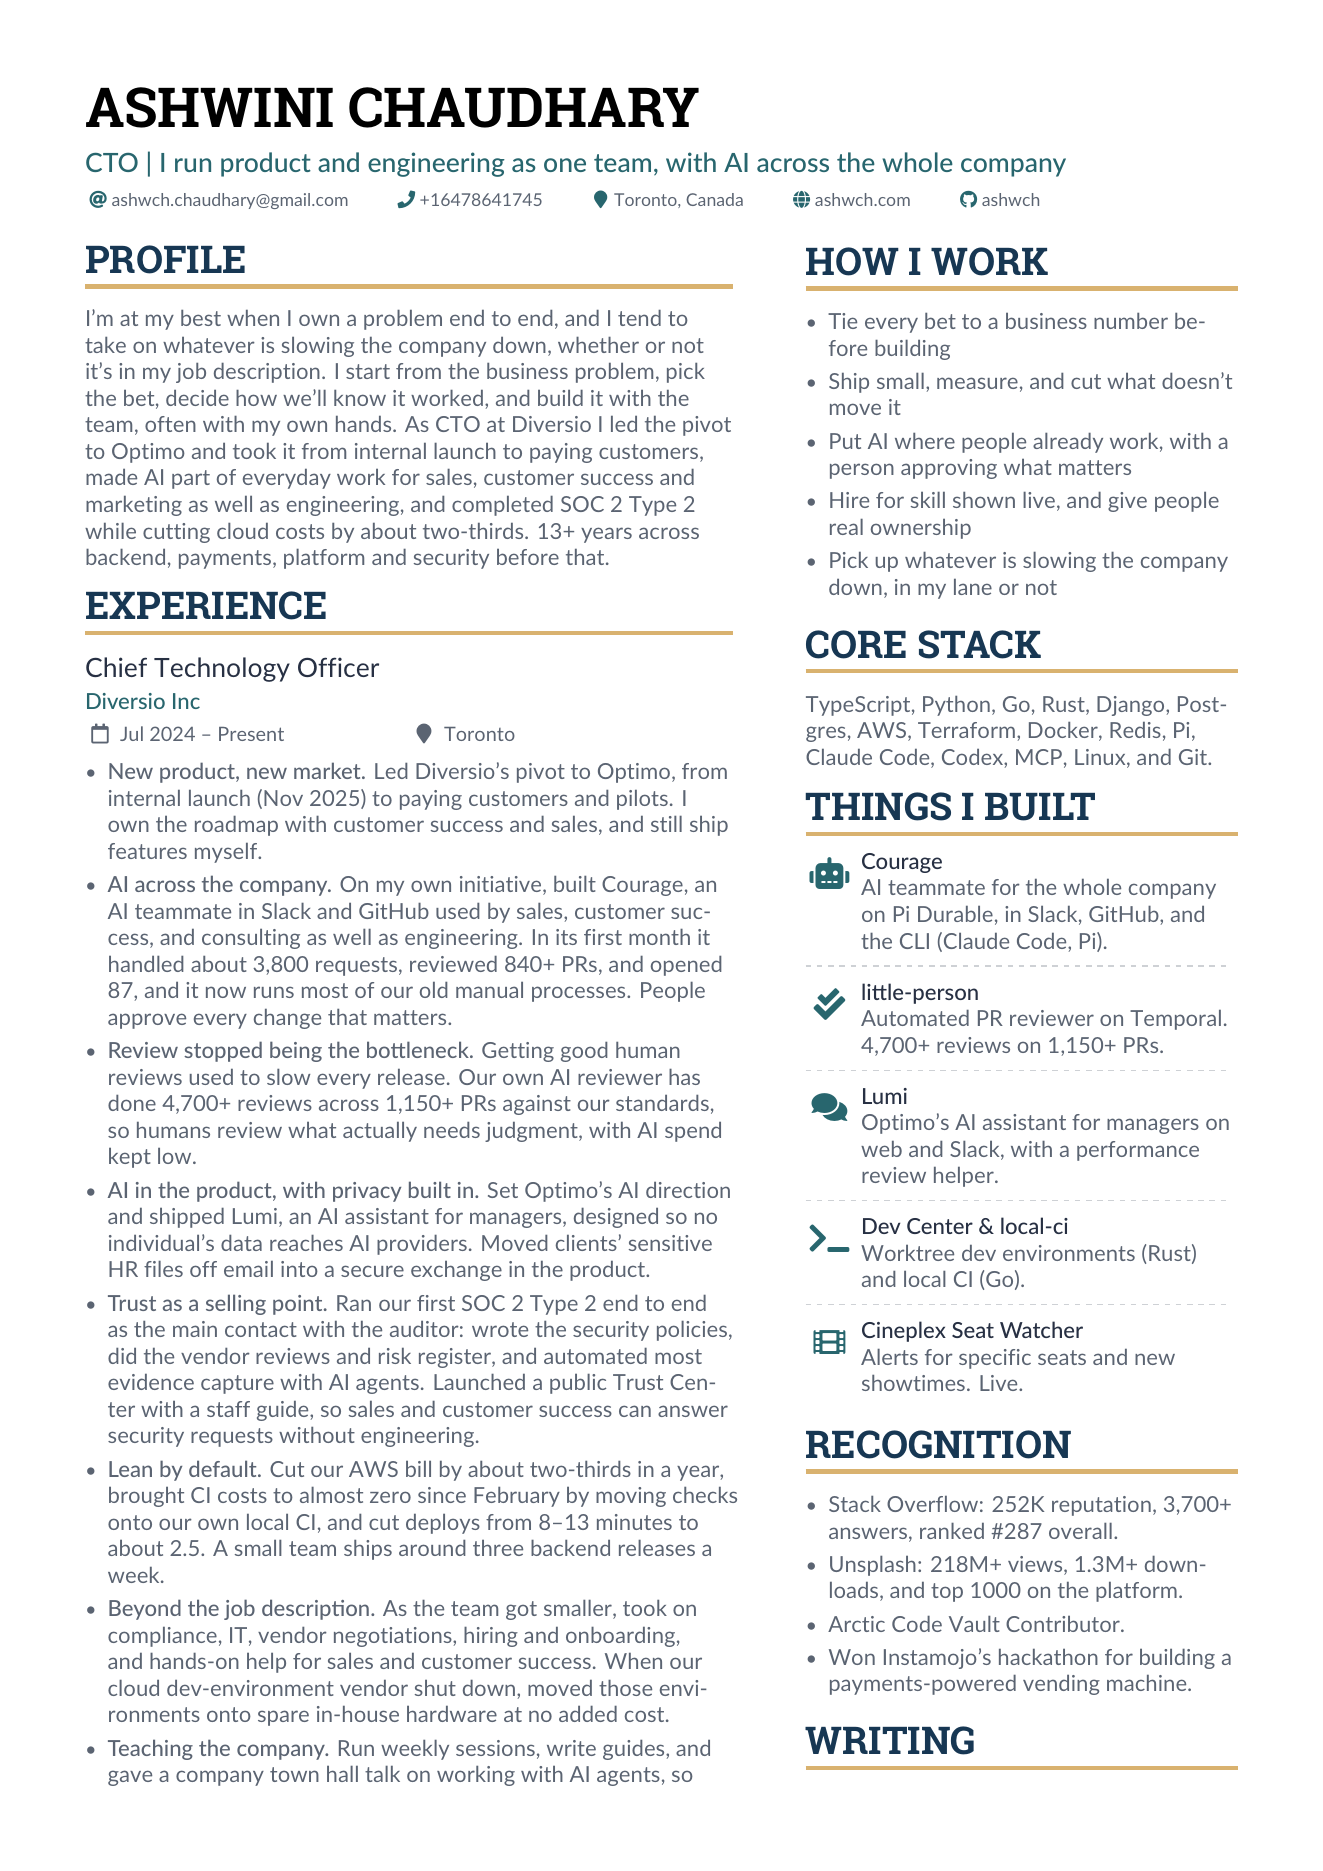
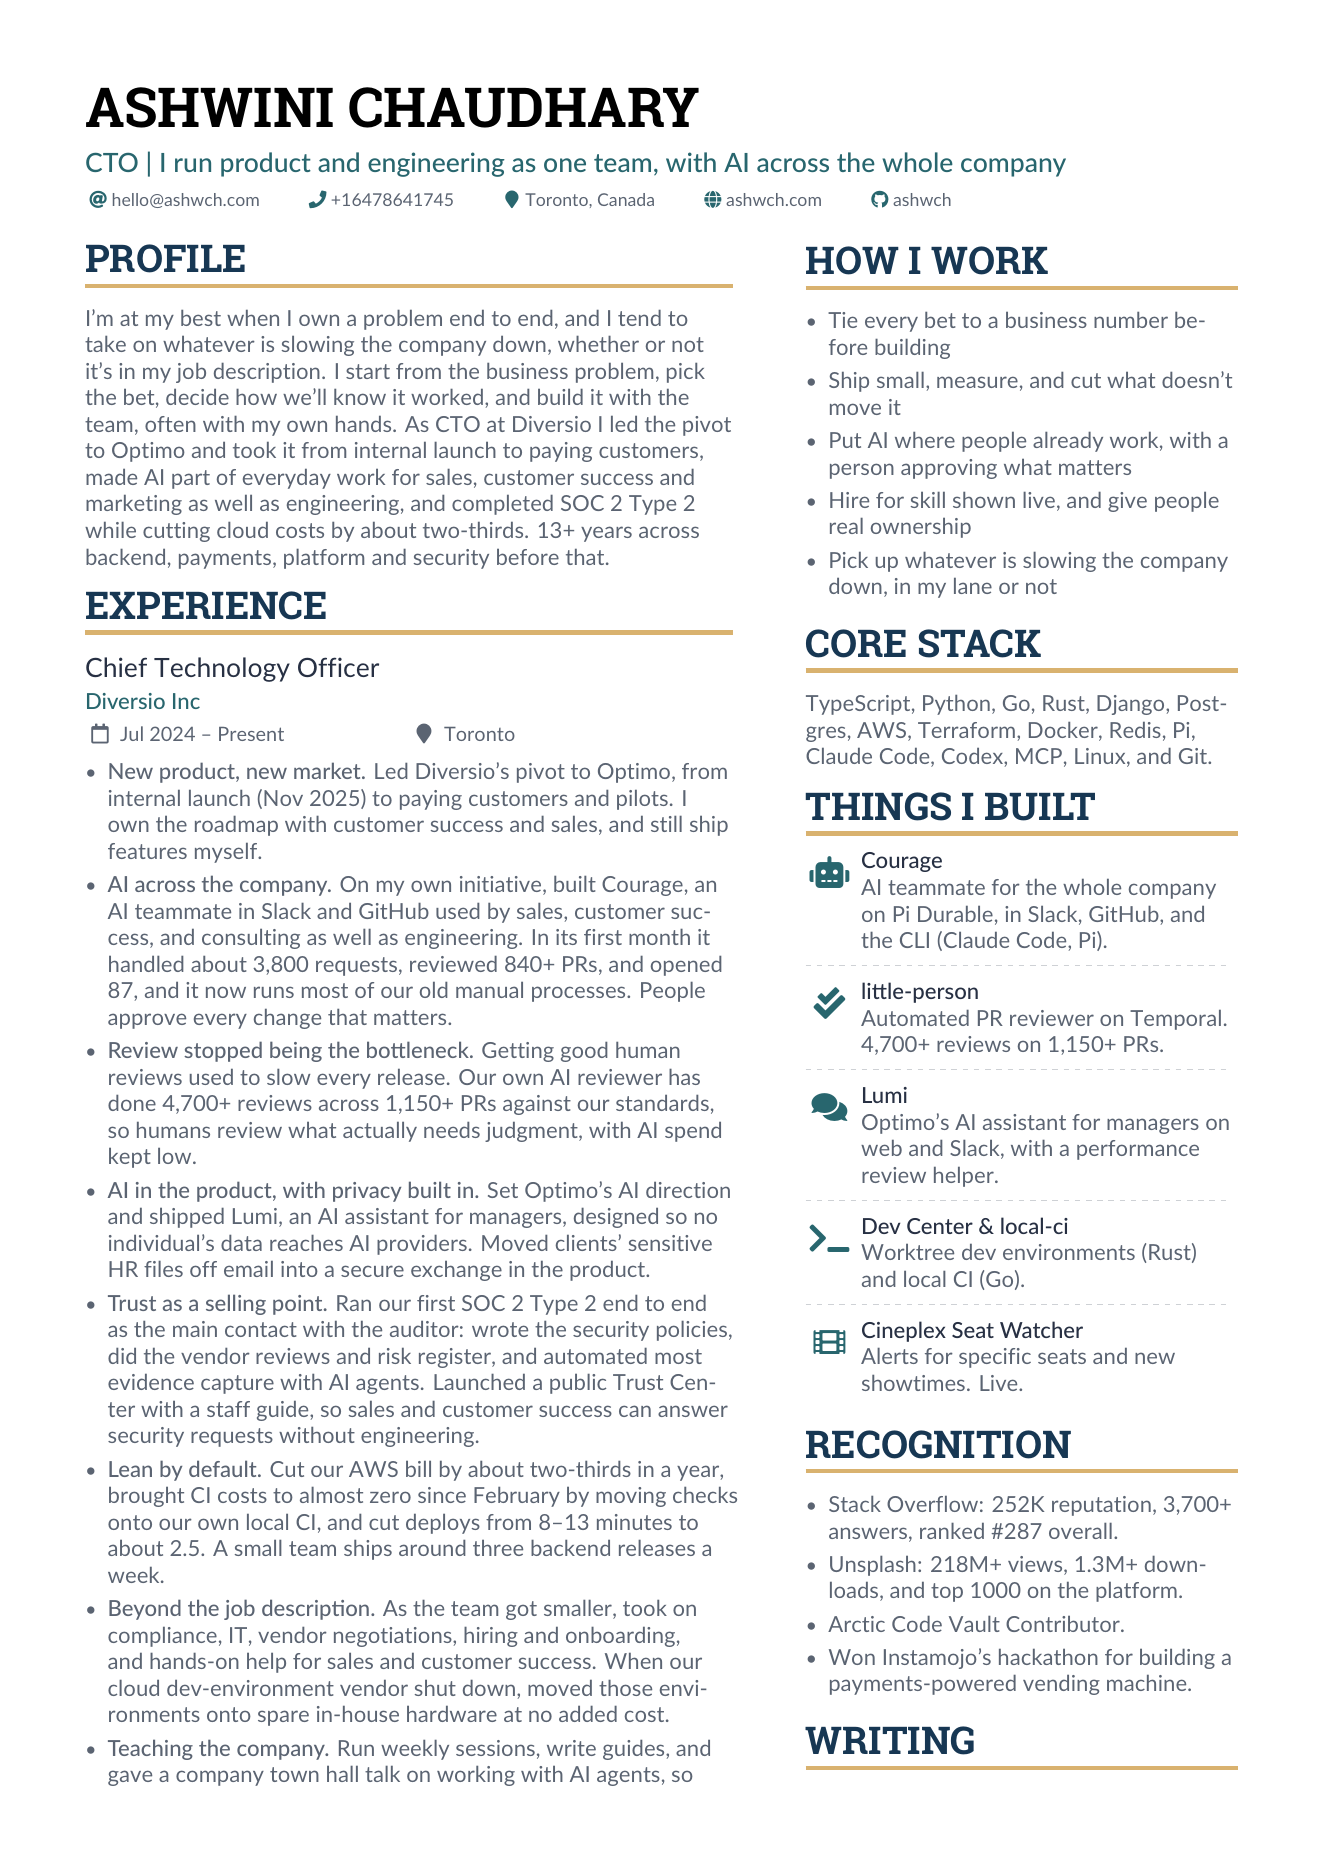
Use hello@ashwch.com as the contact address

diff --git a/site/src/data/site.ts b/site/src/data/site.ts
@@ -7,7 +7,7 @@ export const siteMeta = {
   siteUrl: 'https://ashwch.com',
   locale: 'en_CA',
   author: 'Ashwini Chaudhary',
-  email: 'ashwch.chaudhary@gmail.com',
+  email: 'hello@ashwch.com',
 };
 
 export const primaryNav = [

diff --git a/resume/ashwini-chaudhary-resume.tex b/resume/ashwini-chaudhary-resume.tex
@@ -50,7 +50,7 @@
 % Our patched `\printinfo` implementation keeps the spacing *outside* the link
 % box, which gives PDF viewers tighter, more accurate clickable regions.
 \personalinfo{%
-  \email{ashwch.chaudhary@gmail.com}
+  \email{hello@ashwch.com}
   \phone{+16478641745}
   \location{Toronto, Canada}
   \homepage{ashwch.com}

diff --git a/content/pages/about.md b/content/pages/about.md
@@ -56,4 +56,4 @@ I spend a lot of time on 2v2 Empire Wars, playing online against strong players 
 
 ---
 
-📧 You can reach me at: monty [dot] sinngh [at] gmail [dot] com
+📧 You can reach me at: hello [at] ashwch [dot] com
